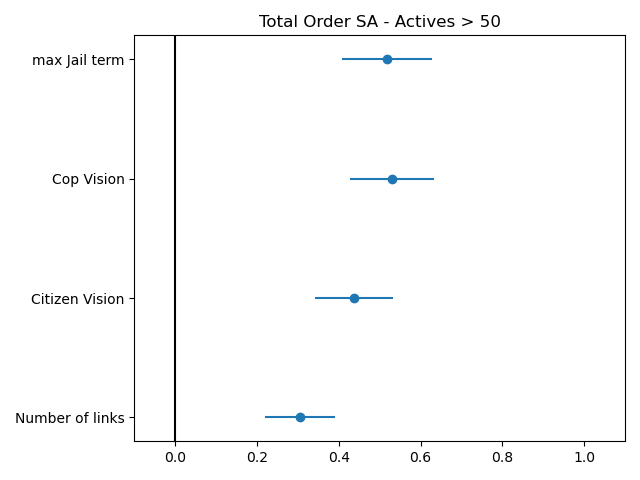
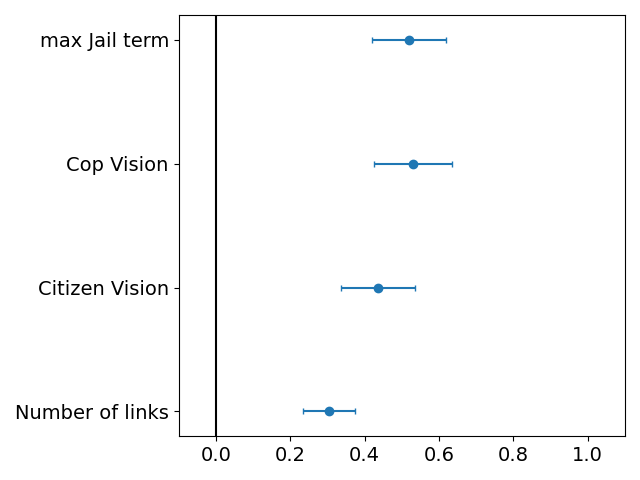
changes

diff --git a/epstein_civil_violence_NormalGrid/model_run.py b/epstein_civil_violence_NormalGrid/model_run.py
@@ -1,8 +1,9 @@
-# #%%
+#%%
 import matplotlib.pyplot as plt
 import importlib
-
 import pandas as pd
+from scipy.signal import find_peaks
+
 from epstein_civil_violence.agent import Citizen, Cop
 from epstein_civil_violence.model import EpsteinCivilViolence
 
@@ -36,10 +37,20 @@ agent_out = model.datacollector.get_agent_vars_dataframe()
 model_out.to_csv("CSV_temp/model_temp.csv")
 agent_out.to_csv("CSV_temp/agent_temp.csv")
 
-legitimacy_kind = "Global" # choose between "Fixed","Global","Local"
-smart_cops = False
-
 #%%
+model_out = pd.read_csv("CSV_temp/model_temp.csv")
+
+print(model_out["Active"].mean())
+print(model_out["Active"].std())
+print(model_out["Active"].max())
+
+peaks, _ = find_peaks(model_out["Active"], height=50)
+print("Indices of peaks:", peaks, "Amount:", len(peaks))
+
+actives_list = model_out["Active"].to_list()
+for peak in peaks:
+    print(peak, actives_list[peak])
+print(actives_list)
 
 peak_intervals = []
 if len(peaks)>1:
@@ -73,28 +84,10 @@ for i in range(1,len(actives_list)-1):
 print("Times of inter-outerbursts", time_between)
 exit()
 
-# start = time.time()
-# model = EpsteinCivilViolence(height=40, 
-#                            width=40, 
-#                            citizen_density=.7, 
-#                            cop_density=cop_density, 
-#                            citizen_vision=7, 
-#                            cop_vision=7, 
-#                            legitimacy=.82, 
-#                            max_jail_term=30, 
-#                            max_iters=150, # cap the number of steps the model takes
-#                            smart_cops = smart_cops,
-#                            legitimacy_kind = legitimacy_kind, # choose between "Fixed","Global","Local"
-#                            max_fighting_time=1
-#                            ) 
-# model.run_model()
+# %%
 
-# finish = time.time()
-# print("Time =",finish-start)
-
-model_out = pd.read_csv("model_temp_None_Global_399.csv")
-# model_out.head(5)
-
+#%%
+# model_out = pd.read_csv("C:/Users/djdcc/Documents/School/UNI/Computational Science/Agent Based Modelling/ABM/epstein_civil_violence_Normal+Network Grid/SA_data/0_2_1_5_34-0_iteration.csv")
 ax = model_out[["Quiescent","Active", "Jailed", "Fighting"]].plot()
 ax.set_title('Citizen Condition Over Time')
 ax.set_xlabel('Step')
@@ -113,10 +106,7 @@ if legitimacy_kind != "Local":
     # plt.savefig("figures_normalgrid/legit_"+legitimacy_kind+"_"+str(cop_density)+"_"+str(smart_cops)+".png")
     plt.show()
 
-agent_out = model.datacollector.get_agent_vars_dataframe()
-#%%
-agent_out.head(5)
-# like_list = ['1244','1243']
+
 print(agent_out[["breed","Legitimacy"]].filter(like='1040', axis = 0 ).head())
 print(agent_out[["breed","Legitimacy"]].filter(like='1041', axis = 0 ).head())
 print(agent_out[["breed","Legitimacy"]].filter(like='1042', axis = 0 ).head())
@@ -127,11 +117,11 @@ if legitimacy_kind == "Local":
     ax.set_xlabel('Step')
     ax.set_ylabel('Number of Citizens')
     _ = ax.legend(bbox_to_anchor=(1.35, 1.025))
-    plt.savefig("figures_normalgrid/legit_"+legitimacy_kind+"_"+str(cop_density)+"_"+str(smart_cops)+".png")
+    # plt.savefig("figures_normalgrid/legit_"+legitimacy_kind+"_"+str(cop_density)+"_"+str(smart_cops)+".png")
     plt.tight_layout()
     plt.show()
 
 # single_agent_out = agent_out[single_agent]
-
 # single_agent_out.head()
+
 # %%

diff --git a/epstein_civil_violence_Normal+Network Grid/model_run.py b/epstein_civil_violence_Normal+Network Grid/model_run.py
@@ -1,7 +1,3 @@
-<<<<<<< HEAD
-#%%
-=======
->>>>>>> ba046af7f527081048e3aba427dc1b37f9995a43
 import matplotlib.pyplot as plt
 import importlib
 
@@ -9,33 +5,21 @@ from epstein_civil_violence.model import EpsteinCivilViolence
 from epstein_civil_violence.agent import Citizen, Cop
 
 import time
-<<<<<<< HEAD
-legitimacy_kind = "Local" # choose between "Fixed","Global","Local"
-=======
 legitimacy_kind = "Global" # choose between "Fixed","Global","Local"
->>>>>>> ba046af7f527081048e3aba427dc1b37f9995a43
 smart_cops = False
 cop_density = .04
 
 start = time.time()
 model = EpsteinCivilViolence(height=40, 
                            width=40,
-<<<<<<< HEAD
-                           links = 5,
-=======
                            links = 10,
->>>>>>> ba046af7f527081048e3aba427dc1b37f9995a43
                            citizen_density=.7, 
                            cop_density=cop_density, 
                            citizen_vision=7, 
                            cop_vision=7, 
                            legitimacy=.82, 
                            max_jail_term=30, 
-<<<<<<< HEAD
-                           max_iters=500, # cap the number of steps the model takes
-=======
                            max_iters=100, # cap the number of steps the model takes
->>>>>>> ba046af7f527081048e3aba427dc1b37f9995a43
                            smart_cops = smart_cops,
                            legitimacy_kind = legitimacy_kind, # choose between "Fixed","Global","Local"
                            max_fighting_time=1
@@ -54,11 +38,7 @@ ax.set_xlabel('Step')
 ax.set_ylabel('Number of Citizens')
 _ = ax.legend(bbox_to_anchor=(1.35, 1.025))
 plt.tight_layout()
-<<<<<<< HEAD
-plt.savefig(r"C:\Users\Gebruiker\OneDrive\Computational_Science\Year1_Semester1_Block3\ABM\figures_normalgrid/plot_"+legitimacy_kind+"_"+str(cop_density)+"_"+str(smart_cops)+".png")
-=======
 plt.savefig("figures_normalgrid/plot_"+legitimacy_kind+"_"+str(cop_density)+"_"+str(smart_cops)+".png")
->>>>>>> ba046af7f527081048e3aba427dc1b37f9995a43
 plt.show()
 if legitimacy_kind != "Local":
     ax = model_out[["Legitimacy"]].plot()
@@ -67,11 +47,7 @@ if legitimacy_kind != "Local":
     ax.set_ylabel('Number of Citizens')
     _ = ax.legend(bbox_to_anchor=(1.35, 1.025))
     plt.tight_layout()
-<<<<<<< HEAD
-    plt.savefig(r"C:\Users\Gebruiker\OneDrive\Computational_Science\Year1_Semester1_Block3\ABM\figures_normalgrid/legit_"+legitimacy_kind+"_"+str(cop_density)+"_"+str(smart_cops)+".png")
-=======
     plt.savefig("figures_normalgrid/legit_"+legitimacy_kind+"_"+str(cop_density)+"_"+str(smart_cops)+".png")
->>>>>>> ba046af7f527081048e3aba427dc1b37f9995a43
     plt.show()
 
 agent_out = model.datacollector.get_agent_vars_dataframe()
@@ -88,11 +64,7 @@ if legitimacy_kind == "Local":
     ax.set_xlabel('Step')
     ax.set_ylabel('Number of Citizens')
     _ = ax.legend(bbox_to_anchor=(1.35, 1.025))
-<<<<<<< HEAD
-    plt.savefig(r"C:\Users\Gebruiker\OneDrive\Computational_Science\Year1_Semester1_Block3\ABM\figures_normalgrid/legit_"+legitimacy_kind+"_"+str(cop_density)+"_"+str(smart_cops)+".png")
-=======
     plt.savefig("figures_normalgrid/legit_"+legitimacy_kind+"_"+str(cop_density)+"_"+str(smart_cops)+".png")
->>>>>>> ba046af7f527081048e3aba427dc1b37f9995a43
     plt.tight_layout()
     plt.show()
 

diff --git a/epstein_civil_violence_Normal+Network Grid/plot_SA_dif_plot.py b/epstein_civil_violence_Normal+Network Grid/plot_SA_dif_plot.py
@@ -62,19 +62,17 @@ Si_peak_interval = sobol.analyze(problem, Total_SA['mean_peak_interval'].values,
 Si_std_peak_interval = sobol.analyze(problem, Total_SA['std_peak_interval'].values, print_to_console=True, calc_second_order=False)
 Si_peaks = sobol.analyze(problem, Total_SA['Peaks'].values, print_to_console=True, calc_second_order=False)
 
-def plot_index(s, params, i, title='', name = ''):
-    """
-    Creates a plot for Sobol sensitivity analysis that shows the contributions
-    of each parameter to the global sensitivity.
+Si = [Si_active, Si_calm, Si_mean_peak_size, Si_peaks, Si_peak_interval, Si_std_peak_size, Si_std_peak_interval]
+titles = ["Actives > 50", "Actives = 0", "Mean Peak size", "Number of Peaks", "Mean Peak Interval", "Std Peak size", "Std Peak Interval"]
+names = ["Si_active", "Si_calm", "Si_mean_peak_size", "Si_peaks", "Si_peak_interval", "Si_std_peak_size", "Si_std_peak_interval"]
 
-    Args:
-        s (dict): dictionary {'S#': dict, 'S#_conf': dict} of dicts that hold
-            the values for a set of parameters
-        params (list): the parameters taken from s
-        i (str): string that indicates what order the sensitivity is.
-        title (str): title for the plot
-    """
-
+for ind in range(len(Si)):
+    # First order\
+    s = Si[ind]
+    params = problem['names']
+    i = "T"
+    title='First Order SA - '+titles[ind]
+    name = names[ind]
     if i == '2':
         p = len(params)
         params = list(combinations(params, 2))
@@ -85,30 +83,16 @@ def plot_index(s, params, i, title='', name = ''):
     else:
         indices = s['S' + i]
         errors = s['S' + i + '_conf']
-        plt.figure()
+        # plt.figure()
 
     l = len(indices)
+    plt.errorbar(indices, range(l), xerr=errors, linestyle='None', marker='o', label = titles[ind])
 
-    # plt.title(title)
-    plt.ylim([-0.2, len(indices) - 1 + 0.2])
-    plt.xlim(-0.1,1.1)
-    plt.yticks(range(l), params, fontsize=14)
-    plt.xticks(fontsize=14)
-    plt.errorbar(indices, range(l), xerr=errors, linestyle='None', marker='o', capsize=2)
-    plt.axvline(0, c='k',)
-    plt.tight_layout()
-    plt.savefig("epstein_civil_violence_Normal+Network Grid/ALL_SA/"+name+"_"+i+".png")
-
-Si = [Si_active, Si_calm, Si_mean_peak_size, Si_peaks, Si_peak_interval, Si_std_peak_size, Si_std_peak_interval]
-title = ["Actives > 50", "Actives = 0", "Mean Peak size", "Number of Peaks", "Mean Peak Interval", "Std Peak size", "Std Peak Interval"]
-name = ["Si_active", "Si_calm", "Si_mean_peak_size", "Si_peaks", "Si_peak_interval", "Si_std_peak_size", "Si_std_peak_interval"]
-
-for i in range(len(Si)):
-    # First order
-    plot_index(Si[i], problem['names'], '1', 'First Order SA - '+title[i], name[i])
-    plt.show()
-
-    # Total order
-    plot_index(Si[i], problem['names'], 'T', 'Total Order SA - '+title[i], name[i])
-    plt.show()
-    # exit()
+plt.ylim([-0.2, len(indices) - 1 + 0.2])
+plt.xlim(-0.1,1.1)
+plt.yticks(range(l), params)
+plt.axvline(0, c='k',)
+plt.tight_layout()
+plt.legend()
+# plt.savefig("epstein_civil_violence_Normal+Network Grid/ALL_SA/"+name+"_"+i+".png")
+plt.show()
